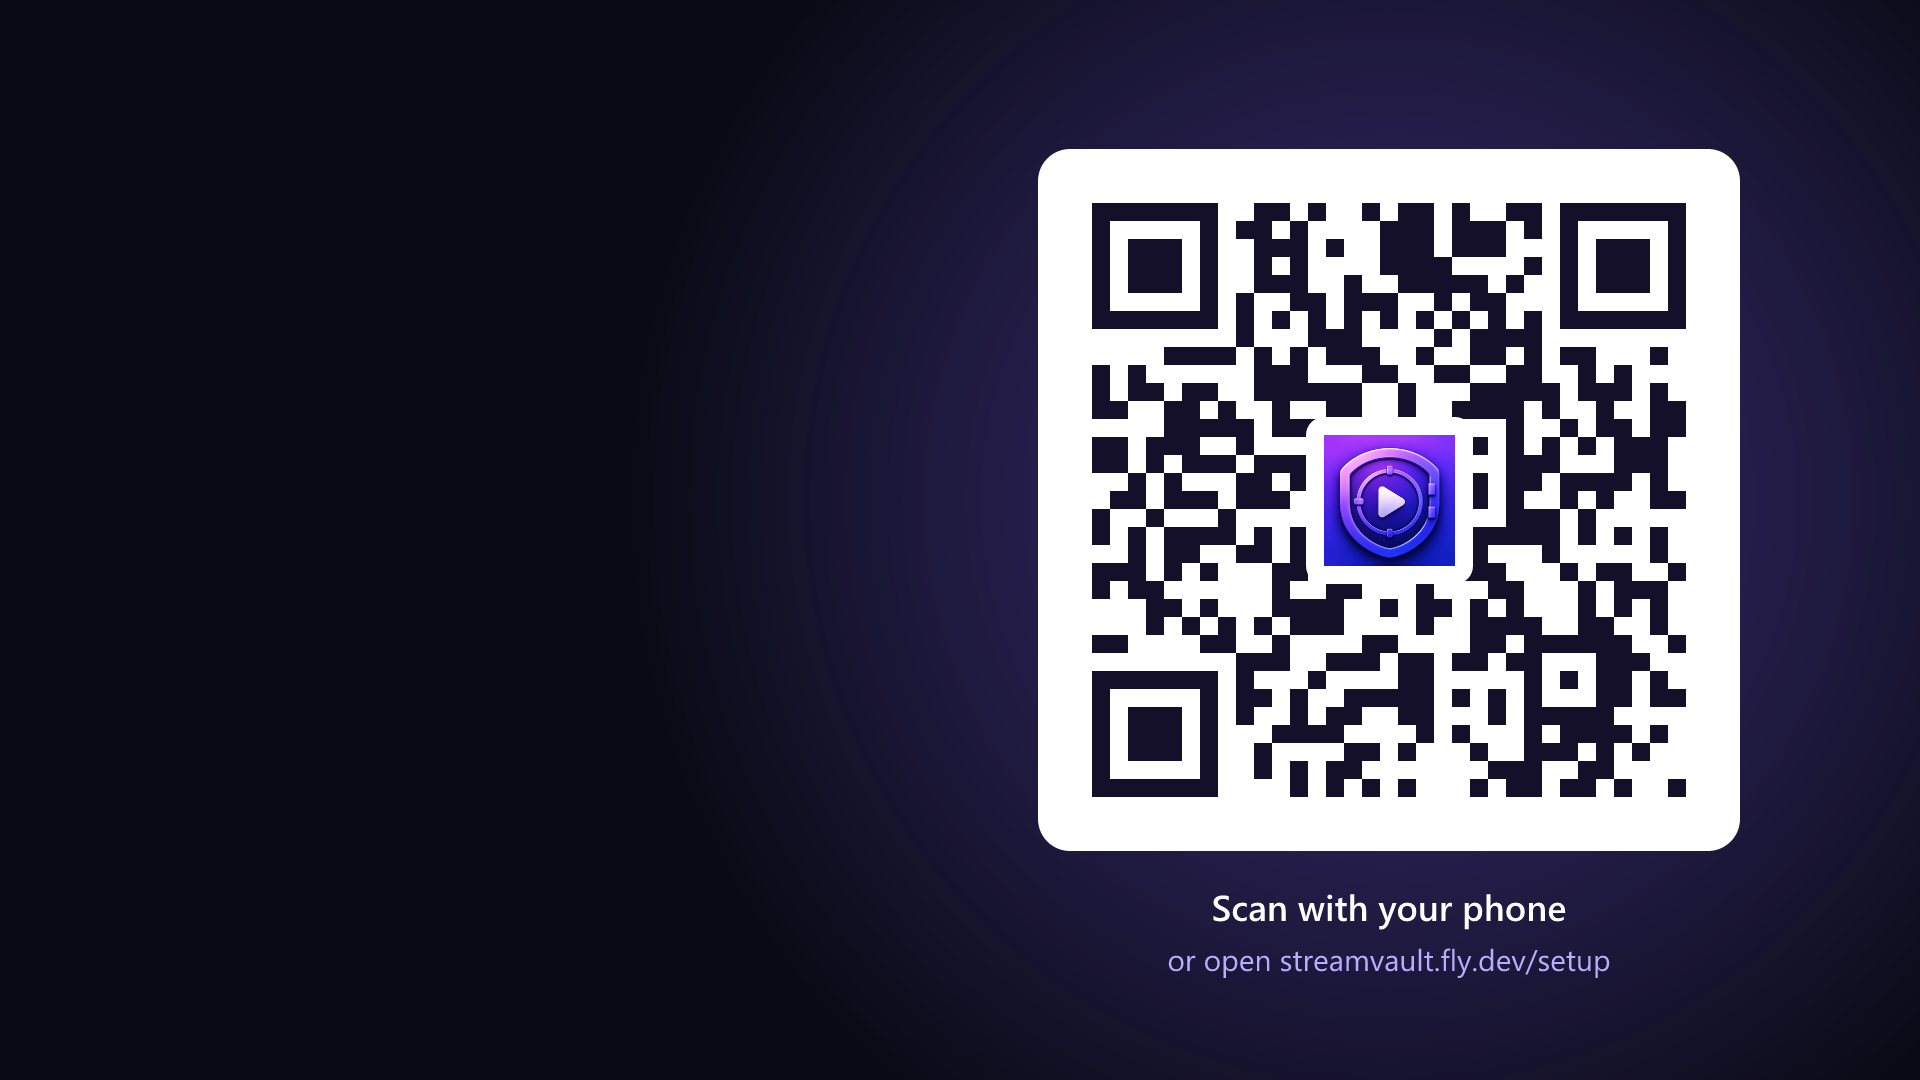
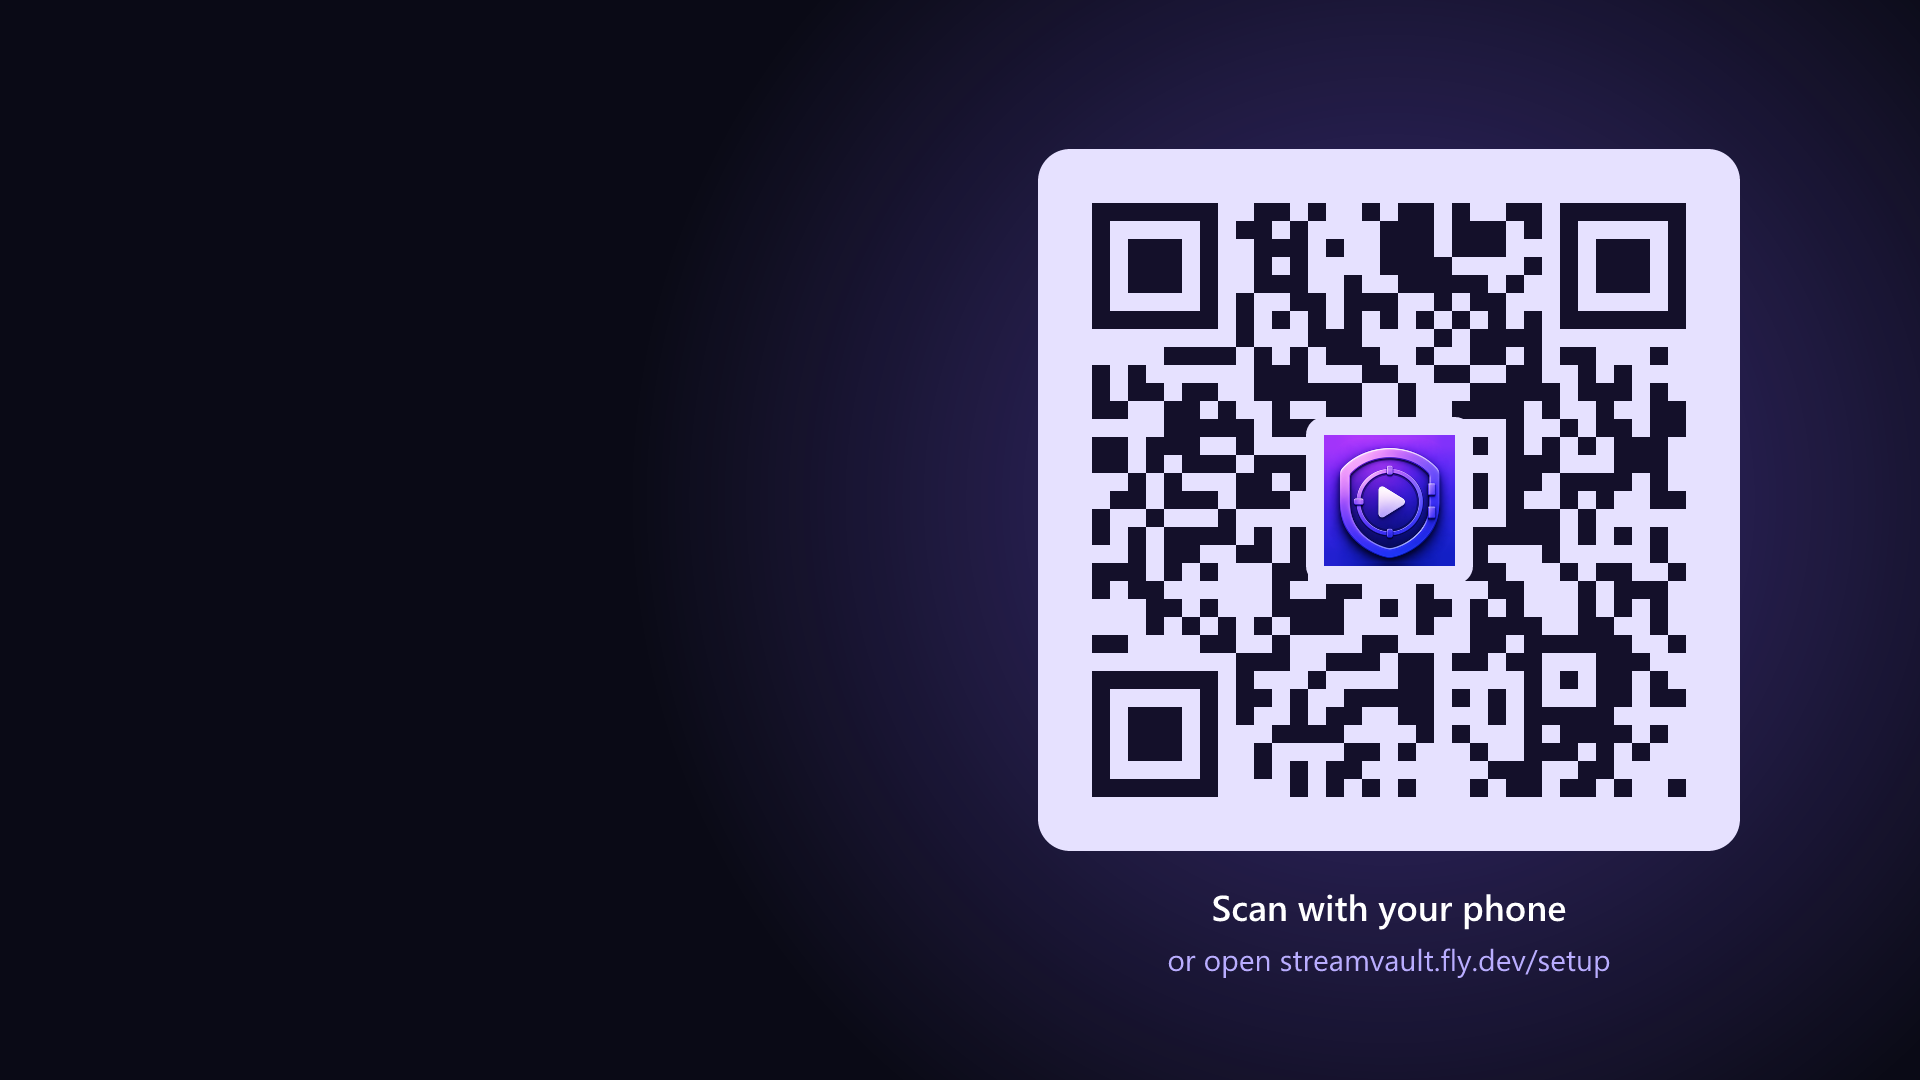
style: lavender QR card instead of pure white
Less glare on a dark TV and on-brand; dark squares on a light card keep
standard polarity (~14.6:1 contrast), so every phone camera still reads
it. Both images decode at TV-row sizes and with a darkened overlay.

Changed region(s): [[0.5312, 0.1222, 0.9062, 0.7944]]

diff --git a/tests/addon.test.js b/tests/addon.test.js
@@ -1283,7 +1283,7 @@ describe("installs without settings (bare manifest)", () => {
     const meta = (await request(app).get("/meta/tv/iptv_tv_1.json")).body.meta;
     expect(meta.description).toMatch(/Scan the code with your phone/);
     expect(meta.description).toMatch(/Sync addons/);
-    expect(meta.background).toBe("https://streamvault.fly.dev/public/img/setup-bg.png");
+    expect(meta.background).toBe("https://streamvault.fly.dev/public/img/setup-bg.png?v=2");
     expect((await request(app).get("/stream/tv/iptv_tv_1.json")).body.streams).toEqual([]);
   });
 

diff --git a/addon.js b/addon.js
@@ -1286,7 +1286,7 @@ const SETUP_QR_URL = "https://streamvault.fly.dev/public/img/setup-qr.png?v=2";
 // Wide detail-page background: QR on the right, left kept dark for the app's
 // title/description overlay (without it apps stretch the square tile behind
 // the text, half-covering the code)
-const SETUP_BG_URL = "https://streamvault.fly.dev/public/img/setup-bg.png";
+const SETUP_BG_URL = "https://streamvault.fly.dev/public/img/setup-bg.png?v=2";
 
 function noticeMeta(kind, type, detail) {
   const notice = NOTICES[kind] || NOTICES.unknown;

diff --git a/CLAUDE.md b/CLAUDE.md
@@ -60,7 +60,7 @@ Three formats for the `:config` segment (`parseConfigPath`): **encrypted** `e-<h
 - Caches: M3U playlists 10 min TTL, max 15 entries (key = URL + selected groups); Xtream catalogs 4h, max 25 (raw logos only — poster links built per response); genres 6h, max 500. A capped 10k-channel parse ≈ 5 MB heap.
 - `withFailureCache()`: a provider that just failed is not retried for 2 min (requests fail fast with the same error/tile); `/stats` → `caches.failedProviders`. Repeats answered from this cache are counted as `history.cachedFailures` only (not logged/counted as provider errors); a `[FAILCACHE]` log line summarizes them on the next real retry.
 - `/stats` also lists (in memory, last 20, masked) `recentUnknownPaths` (our 404s, with User-Agent), `recentEmptyStreams` (with reason), `recentUnconfigured` (bare-manifest installs, with User-Agent) and `recentPlayRejects` (why `/play` refused). `history.foreignRequests` = items that aren't this install's channels, answered without touching the provider: non-`iptv_tv_` ids (IMDb, other addons' `iptv_…`) and, on Xtream installs, ids that can't be an Xtream stream id (an M3U install's `iptv_tv_name.cc`).
-- Bare installs (no settings) get the "Set up StreamVault first" tile; its poster is `public/img/setup-qr.png`, a QR to `/setup` (short link → coarse, TV-scannable code) which counts `history.setupScans` and redirects to `/configure?from=tile` (page shows a TV/app banner). The setup meta also carries `background` = `public/img/setup-bg.png` (1920×1080, QR card on the right — apps put title/text on the left; without it they stretched the square tile behind the text). Both PNGs are rendered from SVG with `qrcode` + `@resvg/resvg-js` (not project deps); keep error correction H (logo in the middle), integer-px modules, and bump the `?v=` on `SETUP_QR_URL` when the picture changes (`/public` is cached 7 days).
+- Bare installs (no settings) get the "Set up StreamVault first" tile; its poster is `public/img/setup-qr.png`, a QR to `/setup` (short link → coarse, TV-scannable code) which counts `history.setupScans` and redirects to `/configure?from=tile` (page shows a TV/app banner). The setup meta also carries `background` = `public/img/setup-bg.png` (1920×1080, QR card on the right — apps put title/text on the left; without it they stretched the square tile behind the text). Both PNGs are rendered from SVG with `qrcode` + `@resvg/resvg-js` (not project deps); keep error correction H (logo in the middle), integer-px modules, and bump the `?v=` on `SETUP_QR_URL`/`SETUP_BG_URL` when a picture changes (`/public` is cached 7 days).
 - `[/<config>]/subtitles/...` (Nuvio asks every addon) → `{subtitles:[]}`, counted as `foreignRequests`. `/robots.txt` allows only `/configure` + `/public/` (install links stay out of search engines).
 - `/<40-hex>/<n>/stats.json` (a client treating us as Stremio's streaming server, ~1/s) → 404, counted as `history.streamingServerProbes`, not in `recentUnknownPaths` / `responseErrors`.
 - Never `substring()` user/provider text before `encodeURIComponent` — it can split an emoji and throw "URI malformed"; slice by code points + `toWellFormed()`.
